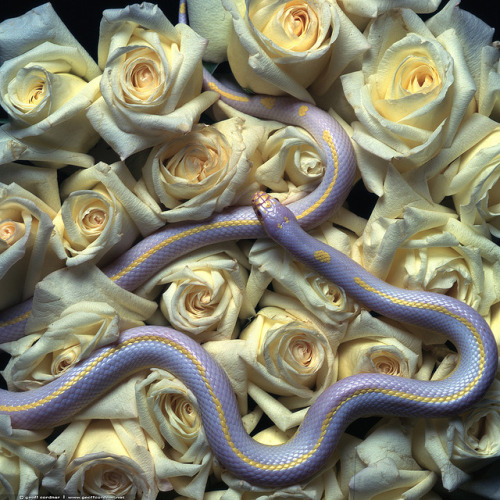
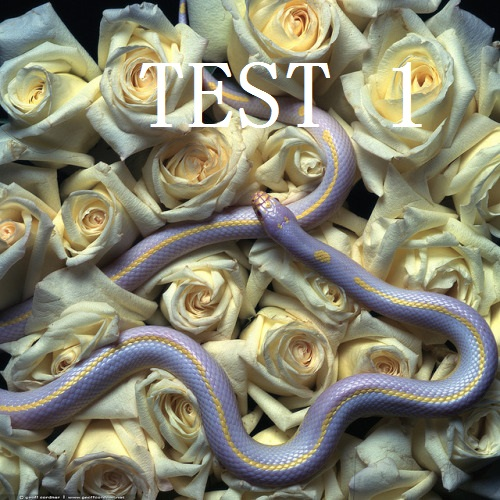
Edited images, implementation is unimplemented

diff --git a/javascripts/HelpPage.js b/javascripts/HelpPage.js
@@ -107,13 +107,27 @@ function eventHelpPage() {
 		//ffffff
 		//D3D3D3
 		//var HelpSubPageText = new createjs.Text("Lorem ipsum dolor sit amet, consectetur adipiscing elit \n\n\n\nimage here\n\n\n\n\n Double Click to Exit", "24px Arial", "#000000");
+		
+		/* Doesnt work
+		//get by id
+        var imageTest = getPreload().getResult("HPTest1");
+        var helpPagePic = new createjs.Bitmap(imageTest);
+        console.log(helpPagePic);
+        //reset bounds
+        var bounds = helpPagePic.getBounds();
+        //helpPagePic.scaleY = 100/bounds.height;
+        //helpPagePic.scaleX = 100/bounds.width;
+		helpPagePic.x = 50;
+		helpPagePic.y = 25;
+		*/
+
 		var HelpSubPageText = new createjs.Text("Lorem ipsum dolor sit amet, consectetur adipiscing elit \n\n\n\nimage here\n\n\n\n\n Double Click to Exit", "24px Arial", "#ffffff");
 		HelpSubPageText.x = game.getStage().width/2;
 		HelpSubPageText.y = 100;
 		HelpSubPageText.textAlign = "center";
 		HelpSubPageText.textBaseline = "middle";
 
-		help_subcontainer.addChild(help_subcontainer_background, HelpSubPageText);
+		help_subcontainer.addChild(helpPagePic, help_subcontainer_background, HelpSubPageText);
 		help_container.addChild(help_subcontainer);
 		game.getStage().update();
 	}

diff --git a/javascripts/Manifest.js b/javascripts/Manifest.js
@@ -142,7 +142,7 @@ const Tundra_GrowingSeason =
 const Help_PageImages =
 [
     {type: createjs.AbstractLoader.IMAGE, src: "./Pictures/Help/HelpPage_Test1.jpg", id: "HPTest1"}
-
+];
 const manifest =
 [
 	DeciduousForest_Animals_Large,
